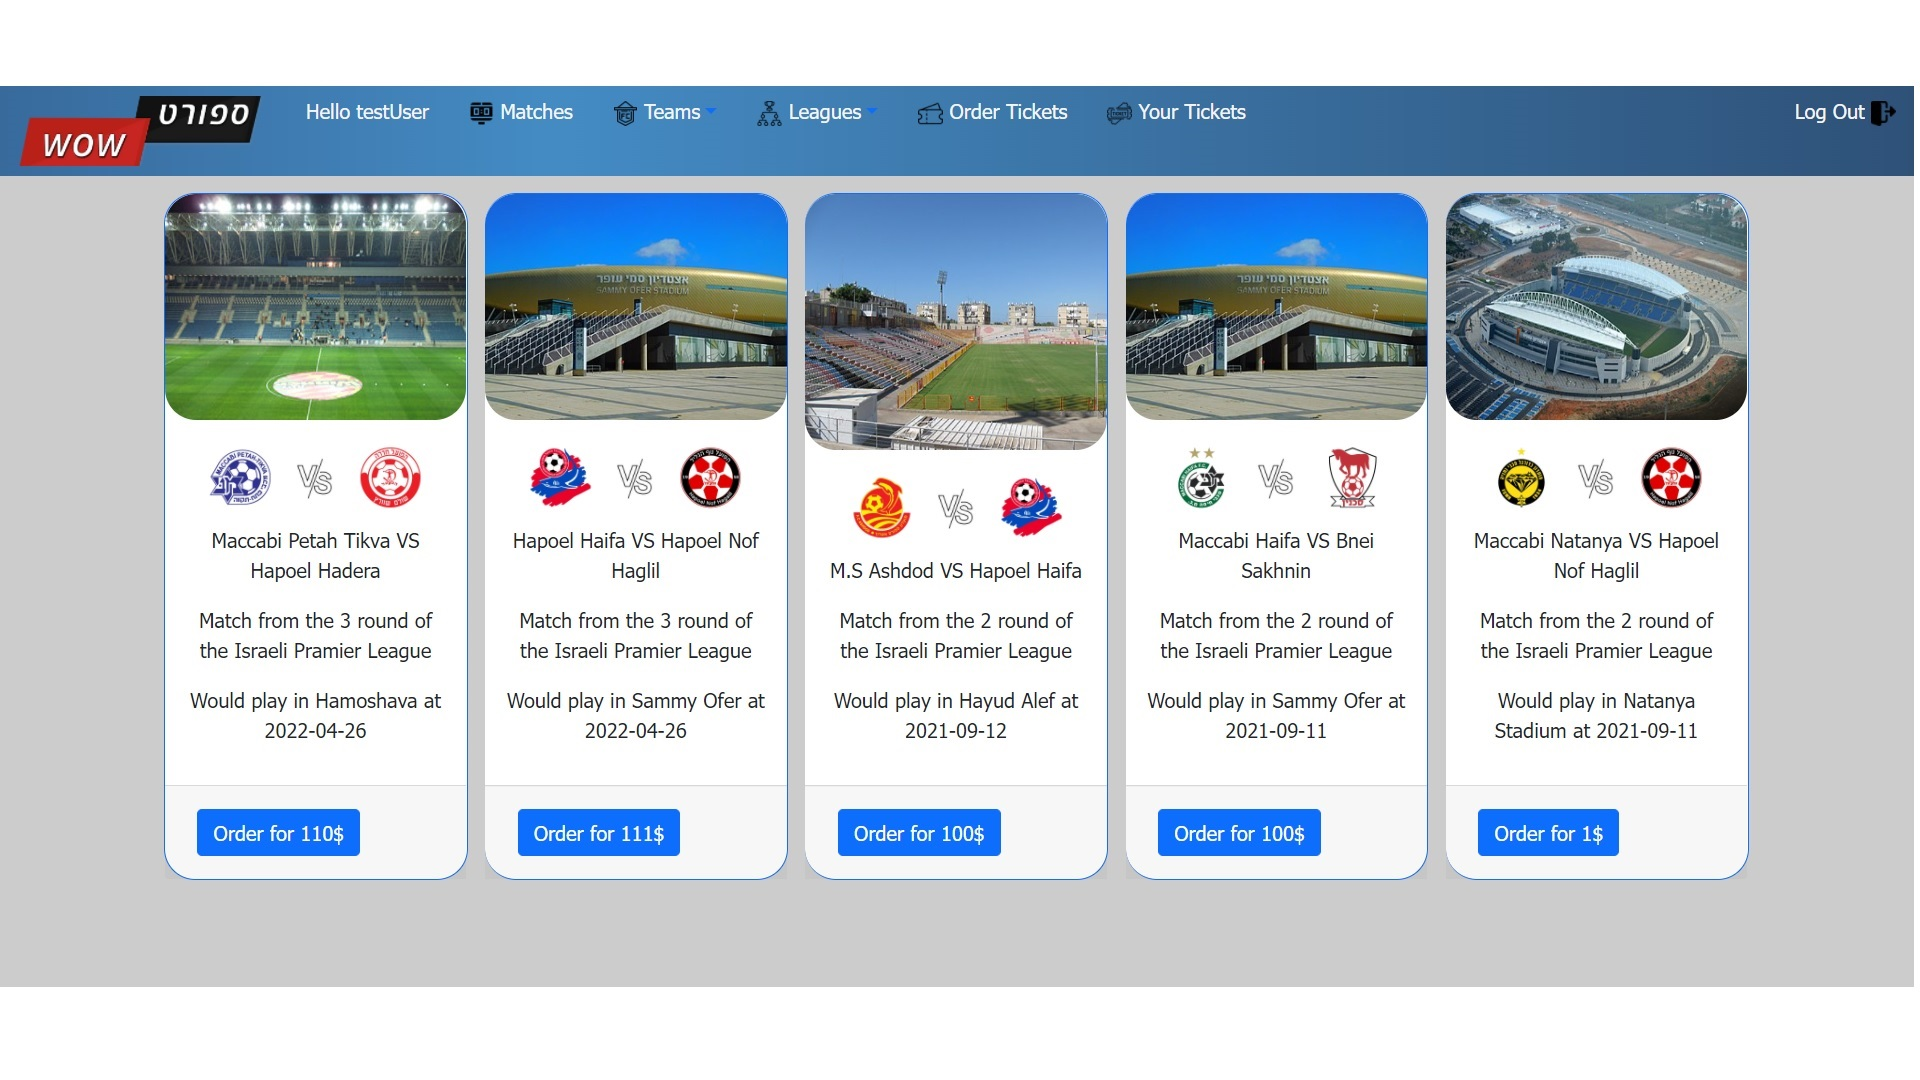
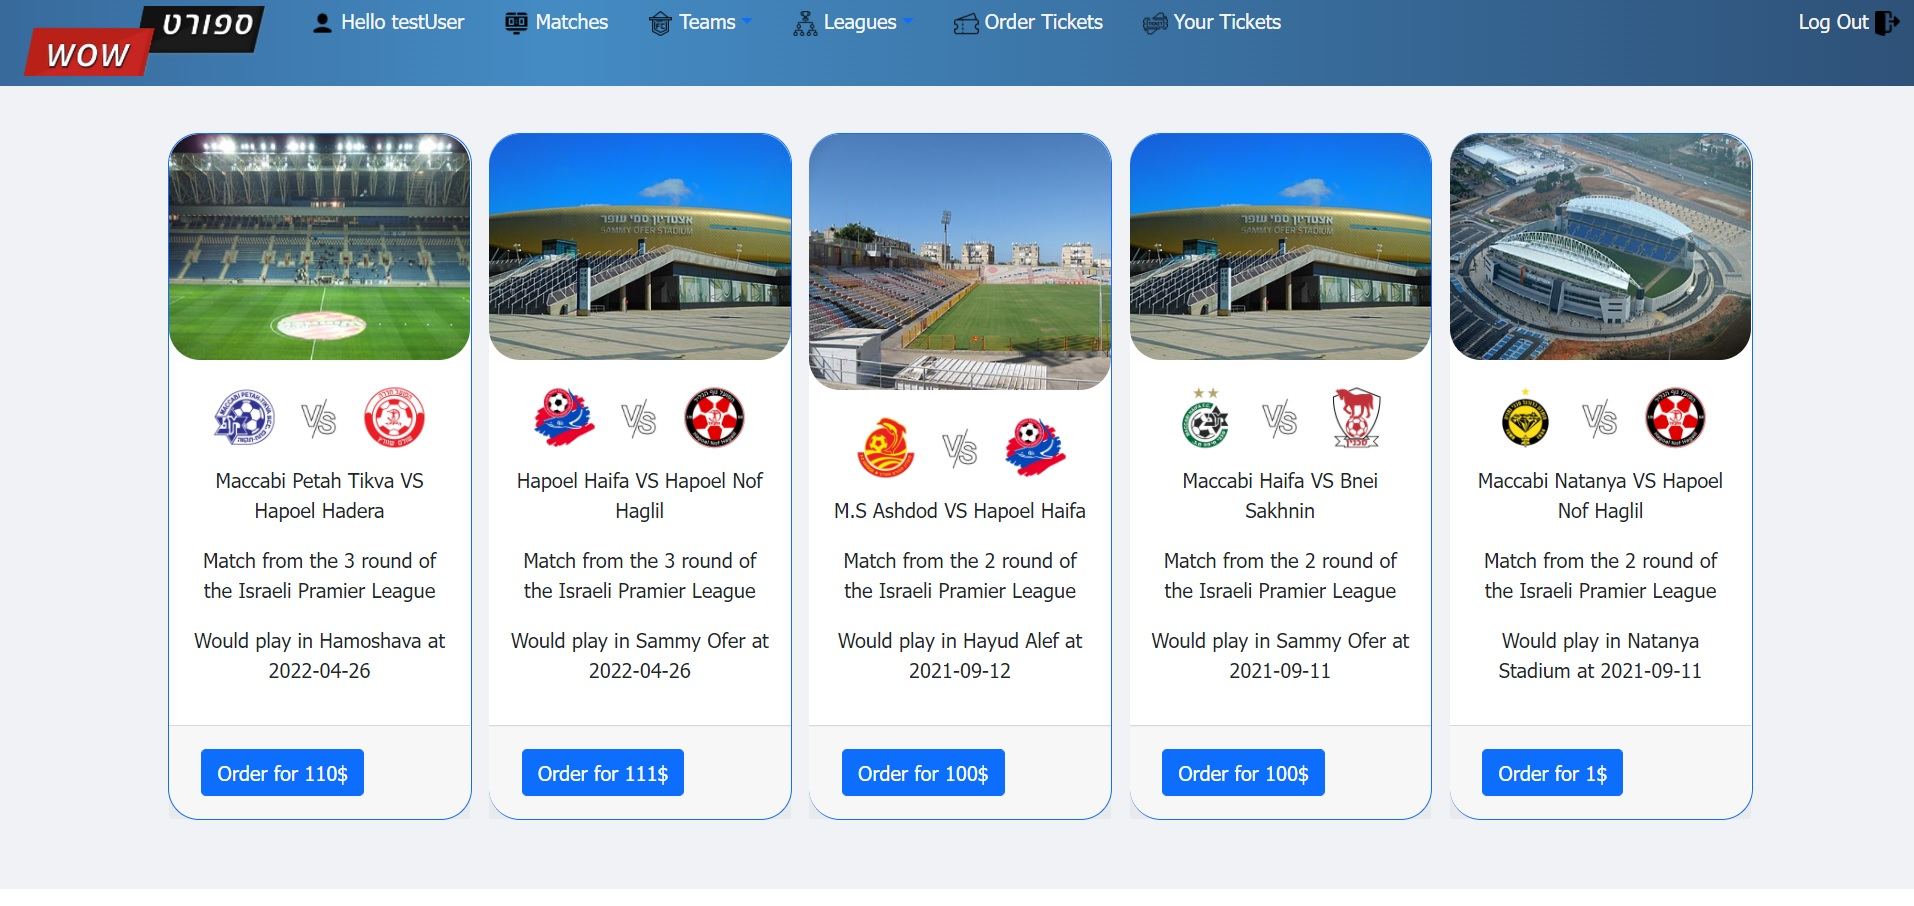
First TRY

diff --git a/src/HomePage.js b/src/HomePage.js
@@ -8,14 +8,73 @@ export class HomePage extends React.Component {
         this.state = {
         }
     }
-    componentDidMount() {
-        // document.body.style.backgroundImage='url("https://image1.masterfile.com/getImage/ODU4LTA2NzU2MTkzZW4uMDAwMDAwMDA=AA$lwl/858-06756193en_Masterfile.jpg")'
-        // document.body.style.backgroundSize = "cover"
-    }
-
-    render () {
+        render () {
         return(
-            <Container>
+            <Container  style={{alignItems:"center"}}>
+                    <h1 className={"the-title"}>Welcome to Sport WoW</h1>
+                    <h2 style={{textAlign:"center"}}>Sport news, scores and ticket order website</h2>
+                    <h6 style={{textAlign:"center"}}>Here you can see some examples of our great features</h6>
+                    <Carousel variant={"dark"} fade={true} className={"center-carousal"}>
+                          <Carousel.Item interval={1800}>
+                            <img style={{display:"block",
+                                   height: "auto",
+                                   maxWidth: "100%"}}
+                              className="d-block w-100 card-image"
+                              src="/matches.jpg"
+                              alt="First slide"
+                            />
+                            <Carousel.Caption>
+                              <h5 style={{color:"black", backgroundColor:"whitesmoke", border:'solid 1px black',  borderRadius: '25px'}}>Leagues Tables</h5>
+                              <p style={{color:"black", backgroundColor:"whitesmoke", border:'solid 1px black',  borderRadius: '25px'}} >See the current and up to dated league tables from all around the globe</p>
+                            </Carousel.Caption>
+                          </Carousel.Item >
+                          <Carousel.Item interval={1800}>
+                                <img style={{display:"block",
+                                   height: "auto",
+                                   maxWidth: "100%"}}
+                              className="d-block w-100 card-image"
+                              src="team.jpg"
+                              alt="Second slide"
+                            />
+                            <Carousel.Caption>
+                              <h5 style={{color:"black", backgroundColor:"whitesmoke", border:'solid 1px black',  borderRadius: '25px'}}>Team details</h5>
+                              <p style={{color:"black", backgroundColor:"whitesmoke", border:'solid 1px black',  borderRadius: '25px'}}>Get all Needed information about your favorites teams</p>
+                            </Carousel.Caption>
+                          </Carousel.Item>
+                          <Carousel.Item  interval={1800}>
+                            <img style={{display:"block",
+                                   height: "auto",
+                                   maxWidth: "100%"}}
+                              className="d-block w-100 card-image"
+                              src="/tickets.jpg"
+                              alt="Third slide"
+                            />
+                            <Carousel.Caption>
+                              <h5 style={{color:"black", backgroundColor:"whitesmoke", border:'solid 1px black',  borderRadius: '25px'}}>
+                                  Order Tickets
+                              </h5>
+                              <p style={{color:"black", backgroundColor:"whitesmoke", border:'solid 1px black',  borderRadius: '25px'}}>
+                                 Order tickets for your wanted games with simple and safe payment and without the lines</p>
+                            </Carousel.Caption>
+                          </Carousel.Item>
+                        <Carousel.Item  interval={1800}>
+                            <img style={{display:"block",
+                                   height: "auto",
+                                   maxWidth: "100%"}}
+                              className="d-block w-100 card-image"
+                              src="/comare.jpg"
+                              alt="Third slide"
+                            />
+                            <Carousel.Caption>
+                              <h5 style={{color:"black", backgroundColor:"whitesmoke", border:'solid 1px black',  borderRadius: '25px'}}>
+                                  Compare Players
+                              </h5>
+                              <p style={{color:"black", backgroundColor:"whitesmoke", border:'solid 1px black',  borderRadius: '25px'}}>
+                                 Compare your favorite players from every league and club</p>
+                            </Carousel.Caption>
+                          </Carousel.Item>
+                        </Carousel>
+                    <h6 style={{textAlign:"center"}}> And ALOT more is waiting just for you...</h6>
             </Container>
         )
     }

diff --git a/src/LeagueTable.js b/src/LeagueTable.js
@@ -1,8 +1,7 @@
 import React from 'react';
 import axios from "axios";
-import {Button, ButtonGroup, Container, Table} from "react-bootstrap";
+import {Button, Container, Table} from "react-bootstrap";
 import {useLocation} from "react-router-dom";
-import {TeamDetails} from "./TeamDetails";
 export  class LeagueTable extends React.Component{
     constructor(props) {
         super(props);
@@ -38,7 +37,8 @@ export  class LeagueTable extends React.Component{
                              className={'blue-button'} style={{margin:"5px"}}>
                         Top Scorers
                     </Button>
-                    <Button style={{margin:"5px"}} href={'/league/' + this.props.location.pathname.split('/')[2] + '/compare_players'} className={'blue-button'}>
+                    <Button style={{margin:"5px"}} href={'/league/' + this.props.location.pathname.split('/')[2] + '/compare_players'}
+                            className={'blue-button'}>
                         Compare Players
                     </Button>
                     <Button style={{margin:"5px"}} href={'/league/' + this.props.location.pathname.split('/')[2] + '/top_assists'}

diff --git a/src/ComparePlayers.js b/src/ComparePlayers.js
@@ -116,12 +116,12 @@ export  class ComparePlayers extends React.Component{
                         </Card>
                     </div>
                         <div className={'float-child'}>
-                            <h1 style={{textDecoration:"underline"}}>Compare Players</h1>
+                            <h1 style={{ textAlign:"center"}}>Compare Players</h1>
                                 <ButtonGroup>
                                 <DropdownButton  id="dropdown-basic-button" title={this.state.player1_name} onSelect={this.handleSelectedPlayer1}>
                                     {playersObjects}
                                 </DropdownButton>
-                                    <Button  className={'blue-button'} onClick={()=>this.GetPlayersDetails()}>
+                                    <Button style={{borderRadius:"5px"}} className={'blue-button'} onClick={()=>this.GetPlayersDetails()}>
                                         Compare
                                     </Button>
                                 <DropdownButton  id="dropdown-basic-button" title={this.state.player2_name} onSelect={this.handleSelectedPlayer2}>

diff --git a/src/UserTickets.js b/src/UserTickets.js
@@ -52,11 +52,12 @@ export class UserTickets extends React.Component {
                       </Card.Text>
                     </Card.Body>
                     <Card.Footer>
-                            <div style={{width:"10%", margin: "auto"}}>
-                            <p>{ticket.amount}  X tickets</p>
+                            <div style={{width:"30%", margin: "auto"}}>
+                            <p>{ticket.amount}  X tickets
                                     <Button onClick={()=> this.deleteTicket(ticket.id)} variant="danger">
                                         Cancel
                                     </Button>
+                            </p>
                             </div>
                     </Card.Footer>
                   </Card>

diff --git a/src/App.js b/src/App.js
@@ -77,7 +77,7 @@ class App extends React.Component{
                 <Nav variant="pills" className={"nav-bar"}>
                   <Nav.Item>
                     <Nav.Link href={"/"} >
-                      <img className={'home-icon'} alt={''} src={'http://www.up2me.co.il/imgs/9030951.jpg'}/>
+                      <img className={'nav-bar-icon'} alt={''} src={'https://i.postimg.cc/8c8PFdf5/sport-wow.webp'}/>
                     </Nav.Link>
                   </Nav.Item>
                     <Nav.Item >

diff --git a/src/App.css b/src/App.css
@@ -45,6 +45,9 @@
 .home-icon{
   width: 200px;
 }
+.nav-bar-icon{
+    width: 130px;
+}
 .center {
   margin: auto;
   width: 20%;
@@ -52,7 +55,7 @@
 }
 .center-carousal {
   margin: auto;
-  width: 50%;
+  width: 80%;
   padding: 10px;
 }
 .center-buttons {
@@ -116,4 +119,8 @@ background: linear-gradient(to left,#2e5178 0,#448bc4 71%,#386a9c 100%);}
 
 .nav-link{
     color: #f5f5f5;
+}
+.the-title{
+    font-size:55px ;
+    text-align: center;
 }

diff --git a/src/UserProfile.js b/src/UserProfile.js
@@ -51,6 +51,7 @@ export class UserProfile extends React.Component {
             let teamsObjects = this.state.teams.map(this.renderTeam)
             return(
                 <Container>
+                    <h1 className={'the-title'}>User Profile</h1>
                     <div style={{width:"50%"}} className={"center"}>
                         <Form.Group className="mb-3">
                             <Form.Group className="mb-3">

diff --git a/src/TopAssists.js b/src/TopAssists.js
@@ -33,6 +33,7 @@ export  class TopAssists extends React.Component{
         return(
             <>
                 <div className={'center'} style={{'width': '40%'}}>
+                    <h1 className={'the-title'}>Assists Leader</h1>
                     <Table style={{'textAlign': 'center', 'border': "#7A91B1"}}  bordered hover>
                           <thead>
                             <tr className={'blue-tr'}>

diff --git a/src/TopScorers.js b/src/TopScorers.js
@@ -33,6 +33,7 @@ export  class TopScorers extends React.Component{
         return(
             <>
                 <div className={'center'} style={{'width': '40%'}}>
+                    <h1 className={'the-title'}>Top Scorers</h1>
                     <Table style={{'textAlign': 'center', 'border': "#7A91B1"}}  bordered hover>
                           <thead>
                             <tr className={'blue-tr'}>

diff --git a/public/index.html b/public/index.html
@@ -24,7 +24,7 @@
       work correctly both with client-side routing and a non-root public URL.
       Learn how to configure a non-root public URL by running `npm run build`.
     -->
-    <title>Sport WOW</title>
+    <title>Sport WoW</title>
   </head>
 <!--  <body style="background-image: url(https://ae01.alicdn.com/kf/UT88ymCX6JXXXagOFbXn/-.jpg_Q90.jpg_.webp)">-->
   <body style="background: #f0f2f5; ">
